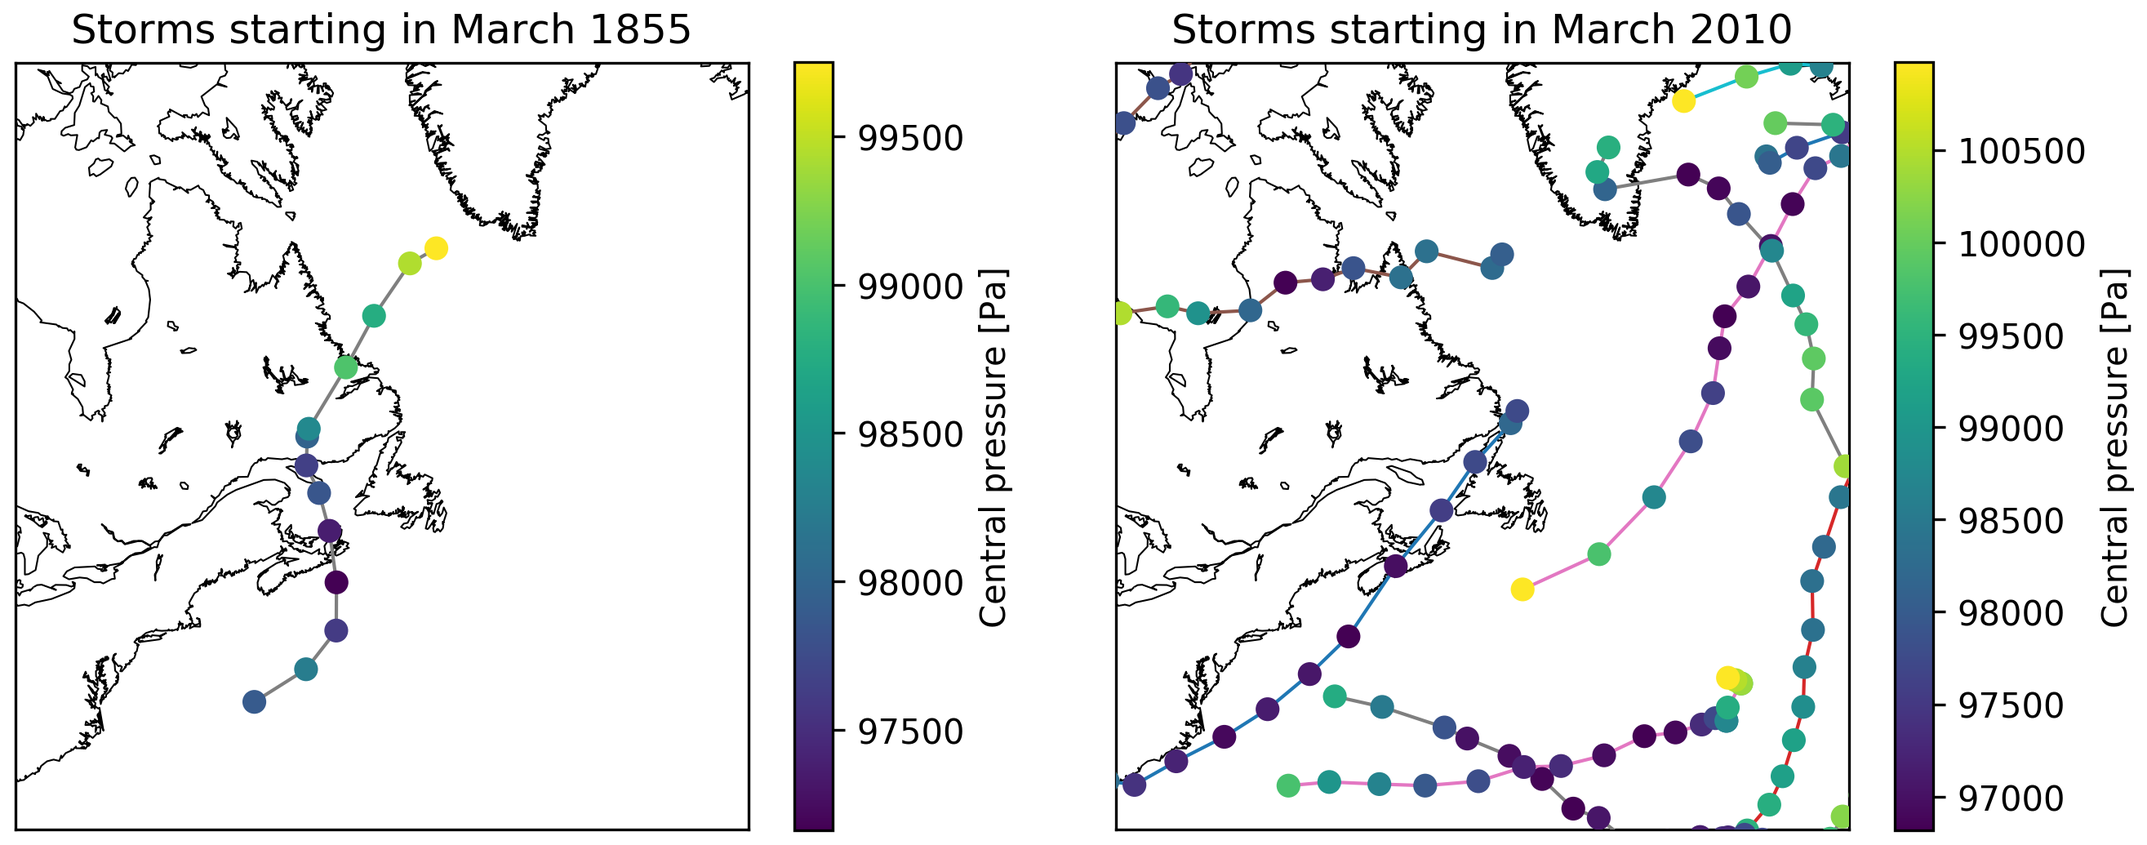
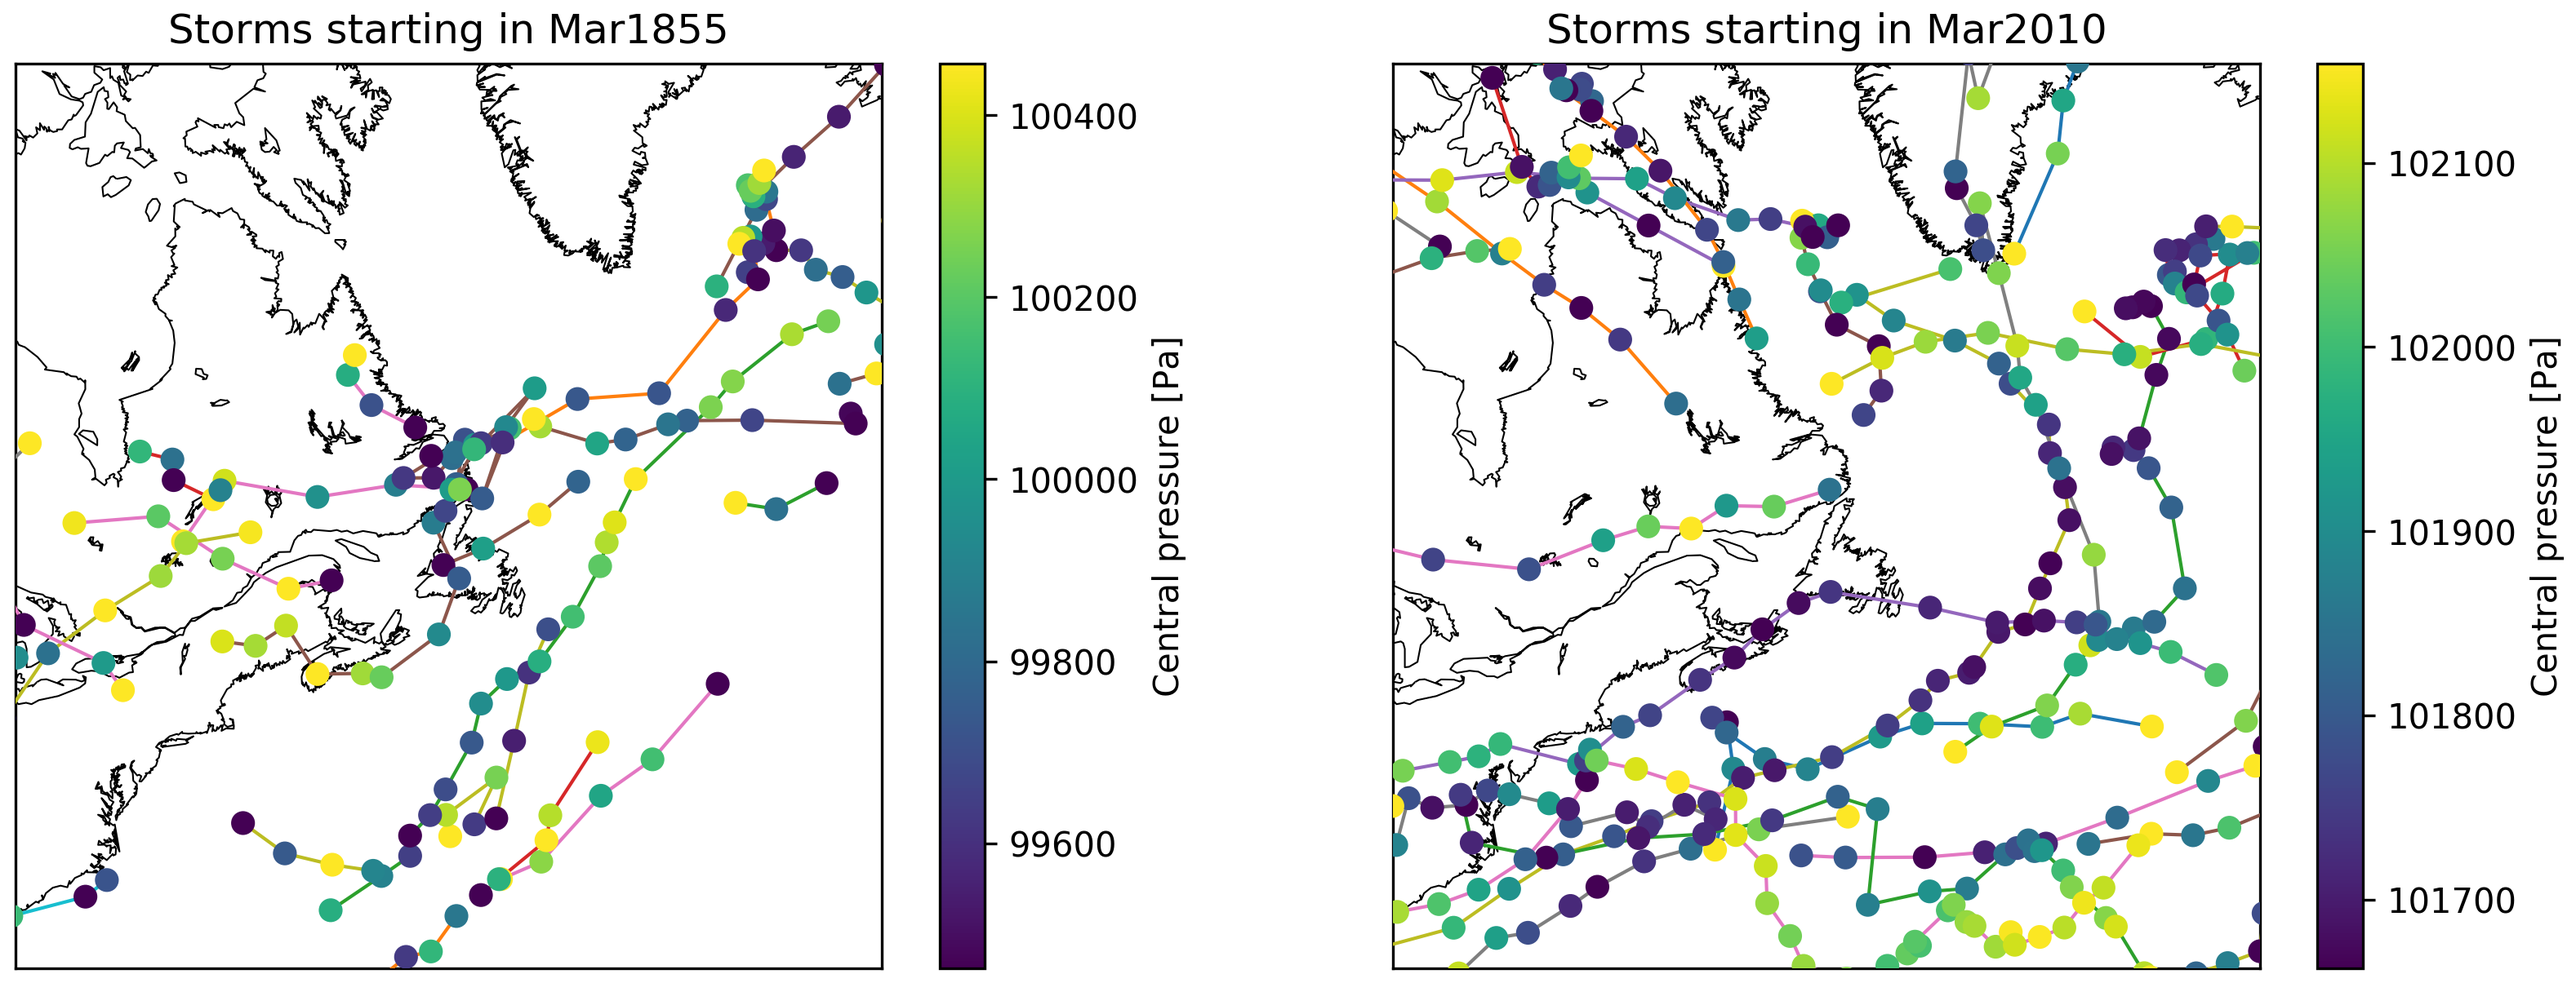
Fixed storm stripping, date error

diff --git a/storm_detection.py b/storm_detection.py
@@ -9,6 +9,7 @@
 #
 
 import numpy as np
+from datetime import date
 from netCDF4 import Dataset
 
 from matplotlib import pyplot as plt
@@ -19,34 +20,61 @@ import storm_functions as storm
 # Load in slp data and lat/lon coordinates
 #
 
+dataset = 'NCEP_20CRV2C'
+dataset = 'NCEP_R1'
+dataset = 'NCEP_CFSR'
+
 # Parameters
-pathroot = '/home/oliver/data/NCEP/20CRv2c/prmsl/6hourly/'
+pathroot = {'NCEP_20CRV2C': '/home/oliver/data/NCEP/20CRv2c/prmsl/6hourly/', 'NCEP_R1': '/home/oliver/data/NCEP/R1/slp/', 'NCEP_CFSR': '/home/oliver/data/NCEP/CFSR/prmsl/'}
+var = {'NCEP_20CRV2C': 'prmsl', 'NCEP_R1': 'slp', 'NCEP_CFSR': 'PRMSL_L101'}
 
 # Generate date and hour vectors
-yearStart = 1851
-yearEnd = 2014
-t, dates, T, year, month, day, doy = storm.timevector([yearStart,1,1], [yearEnd,12,31]) # Daily
-year = np.repeat(year, 4) # 6-hourly
-month = np.repeat(month, 4) # 6-hourly
-day = np.repeat(day, 4) # 6-hourly
-hour = np.tile(np.array([0, 6, 12, 18]), T) # 6-hourly
+yearStart = {'NCEP_20CRV2C': 1851, 'NCEP_R1': 1948, 'NCEP_CFSR': 1979}
+yearEnd = {'NCEP_20CRV2C': 2014, 'NCEP_R1': 2017, 'NCEP_CFSR': 1979}
 
 # Load lat, lon
-filename = pathroot + 'prmsl.' + str(yearStart) + '.nc'
-fileobj = Dataset(filename, 'r')
+filename = {'NCEP_20CRV2C': pathroot['NCEP_20CRV2C'] + 'prmsl.' + str(yearStart['NCEP_20CRV2C']) + '.nc',
+            'NCEP_R1': pathroot['NCEP_R1'] + 'slp.' + str(yearStart['NCEP_R1']) + '.nc',
+            'NCEP_CFSR': pathroot['NCEP_CFSR'] + 'prmsl.gdas.' + str(yearStart['NCEP_CFSR']) + '01.grb2.nc'}
+fileobj = Dataset(filename[dataset], 'r')
 lon = fileobj.variables['lon'][:].astype(float)
 lat = fileobj.variables['lat'][:].astype(float)
 fileobj.close()
 
 # Load slp data
 slp = np.zeros((0, len(lat), len(lon)))
-for yr in range(yearStart, yearEnd+1):
-    fileobj = Dataset(filename, 'r')
-    filename = pathroot + 'prmsl.' + str(yr) + '.nc'
-    slp0 = fileobj.variables['prmsl'][:].astype(float)
-    slp = np.append(slp, slp0, axis=0)
-    fileobj.close()
-    print yr, slp0.shape[0]
+year = np.zeros((0,))
+month = np.zeros((0,))
+day = np.zeros((0,))
+hour = np.zeros((0,))
+for yr in range(yearStart[dataset], yearEnd[dataset]+1):
+    if (dataset == 'NCEP_20CRV2C') + (dataset == 'NCEP_R1'):
+        filename = {'NCEP_20CRV2C': pathroot['NCEP_20CRV2C'] + 'prmsl.' + str(yr) + '.nc', 'NCEP_R1': pathroot['NCEP_R1'] + 'slp.' + str(yr) + '.nc'}
+        fileobj = Dataset(filename[dataset], 'r')
+        time = fileobj.variables['time'][:]
+        time_ordinalDays = time/24. + date(1800,1,1).toordinal()
+        year = np.append(year, [date.fromordinal(np.floor(time_ordinalDays[tt]).astype(int)).year for tt in range(len(time))])
+        month = np.append(month, [date.fromordinal(np.floor(time_ordinalDays[tt]).astype(int)).month for tt in range(len(time))])
+        day = np.append(day, [date.fromordinal(np.floor(time_ordinalDays[tt]).astype(int)).day for tt in range(len(time))])
+        hour = np.append(hour, (np.mod(time_ordinalDays, 1)*24).astype(int))
+        slp0 = fileobj.variables[var[dataset]][:].astype(float)
+        slp = np.append(slp, slp0, axis=0)
+        fileobj.close()
+        print yr, slp0.shape[0]
+    if dataset == 'NCEP_CFSR':
+        for mth in range(1, 12+1):
+            filename = {'NCEP_CFSR': pathroot['NCEP_CFSR'] + 'prmsl.gdas.' + str(yr) + str(mth).zfill(2) + '.grb2.nc'}
+            fileobj = Dataset(filename[dataset], 'r')
+            time = fileobj.variables['time'][:]
+            time_ordinalDays = time/24. + date(yr,mth,1).toordinal()
+            year = np.append(year, [date.fromordinal(np.floor(time_ordinalDays[tt]).astype(int)).year for tt in range(len(time))])
+            month = np.append(month, [date.fromordinal(np.floor(time_ordinalDays[tt]).astype(int)).month for tt in range(len(time))])
+            day = np.append(day, [date.fromordinal(np.floor(time_ordinalDays[tt]).astype(int)).day for tt in range(len(time))])
+            hour = np.append(hour, (np.mod(time_ordinalDays, 1)*24).astype(int))
+            slp0 = fileobj.variables[var[dataset]][:].astype(float)
+            slp = np.append(slp, slp0, axis=0)
+            fileobj.close()
+            print yr, mth, slp0.shape[0]
 
 #
 # Storm Detection

diff --git a/storm_census.py b/storm_census.py
@@ -120,7 +120,7 @@ plt.figure()
 plt.clf()
 plt.subplot(2,2,1)
 proj.drawcoastlines(linewidth=0.5)
-plt.contourf(lonproj, latproj, Nc, 24, cmap=plt.cm.hot_r)
+plt.contourf(lonproj, latproj, Nc_unique, levels=np.append(np.arange(0, 250+1, 25), 10000), cmap=plt.cm.hot_r)
 plt.title('Count of cyclone tracks')
 H = plt.colorbar()
 H.set_label('count')
@@ -134,11 +134,11 @@ plt.clim(95000, 101000)
 plt.title('Average cyclone central pressure')
 plt.subplot(2,2,3)
 proj.drawcoastlines(linewidth=0.5)
-plt.contourf(lonproj, latproj, Na, 24, cmap=plt.cm.hot_r)
+plt.contourf(lonproj, latproj, Na_unique, levels=np.append(np.arange(0, 250+1, 25), 10000), cmap=plt.cm.hot_r)
 plt.title('Count of anticyclone tracks')
 H = plt.colorbar()
 H.set_label('count')
-plt.clim(0, 200)
+plt.clim(0, 250)
 plt.subplot(2,2,4)
 proj.drawcoastlines(linewidth=0.5)
 plt.contourf(lonproj, latproj, ampa, 24, cmap=plt.cm.rainbow)
@@ -153,28 +153,32 @@ plt.figure()
 plt.clf()
 plt.subplot(2,2,1)
 proj.drawcoastlines(linewidth=0.5)
-plt.contourf(lonproj, latproj, genc, 24, cmap=plt.cm.hot_r)
+plt.contourf(lonproj, latproj, genc, levels=np.append(np.arange(0, 40+1, 5), 500), cmap=plt.cm.hot_r)
 plt.title('Count of cyclone genesis')
 H = plt.colorbar()
 H.set_label('count')
+plt.clim(0, 40)
 plt.subplot(2,2,2)
 proj.drawcoastlines(linewidth=0.5)
-plt.contourf(lonproj, latproj, termc, 24, cmap=plt.cm.hot_r)
+plt.contourf(lonproj, latproj, termc, levels=np.append(np.arange(0, 40+1, 5), 500), cmap=plt.cm.hot_r)
 plt.title('Count of cyclone termination')
 H = plt.colorbar()
 H.set_label('count')
+plt.clim(0, 40)
 plt.subplot(2,2,3)
 proj.drawcoastlines(linewidth=0.5)
-plt.contourf(lonproj, latproj, gena, 24, cmap=plt.cm.hot_r)
+plt.contourf(lonproj, latproj, gena, levels=np.append(np.arange(0, 40+1, 5), 500), cmap=plt.cm.hot_r)
 plt.title('Count of anticyclone genesis')
 H = plt.colorbar()
 H.set_label('count')
+plt.clim(0, 40)
 plt.subplot(2,2,4)
 proj.drawcoastlines(linewidth=0.5)
-plt.contourf(lonproj, latproj, terma, 24, cmap=plt.cm.hot_r)
+plt.contourf(lonproj, latproj, terma, levels=np.append(np.arange(0, 40+1, 5), 500), cmap=plt.cm.hot_r)
 plt.title('Count of anticyclone termination')
 H = plt.colorbar()
 H.set_label('count')
+plt.clim(0, 40)
 # plt.savefig('figures/storm_genesis_termination.png', bbox_inches='tight', pad_inches=0.05, dpi=300)
 
 # Proportion of cyclones to anticyclones

diff --git a/storm_functions.py b/storm_functions.py
@@ -322,6 +322,11 @@ def strip_storms(tracked_storms, dt, d_tot_min=1000., d_ratio=0.6, dur_min=72):
      2. A total track length <= d_tot_min (short tracks)
      3. A start-to-end straight-line distance that is less than d_ratio
         times the total track length (meandering tracks).
+
+    Use d_tot_min = 0, d_ratio = 0 and/or dur_min = 0 to avoid stripping out
+    storms due to these criteria. It is recommended to use dur_min >= 6 or 12
+    hours in order to remove a significant number of "storms" that appear due
+    to high-frequency synoptic variability in the data.
     '''
 
     stripped_storms = []

diff --git a/storm_tracking.py b/storm_tracking.py
@@ -15,7 +15,7 @@ import storm_functions as storm
 #
 
 # Load in detected positions and date/hour information
-filename = 'storm_det_slp'
+filename = '/home/oliver/data/stormTracking/20CR/storm_det_slp'
 data = np.load(filename + '.npz')
 det_storms = data['storms']
 year = data['year']
@@ -40,7 +40,7 @@ for ed in range(len(storms)):
     storms[ed]['age'] = len(storms[ed]['lon'])
 
 # Strip storms based on track lengths
-storms = storm.strip_storms(storms, dt=6)
+storms = storm.strip_storms(storms, dt=6, d_tot_min=0., d_ratio=0., dur_min=12)
 
 # Save tracked storm data
 np.savez('storm_track_slp', storms=storms)
